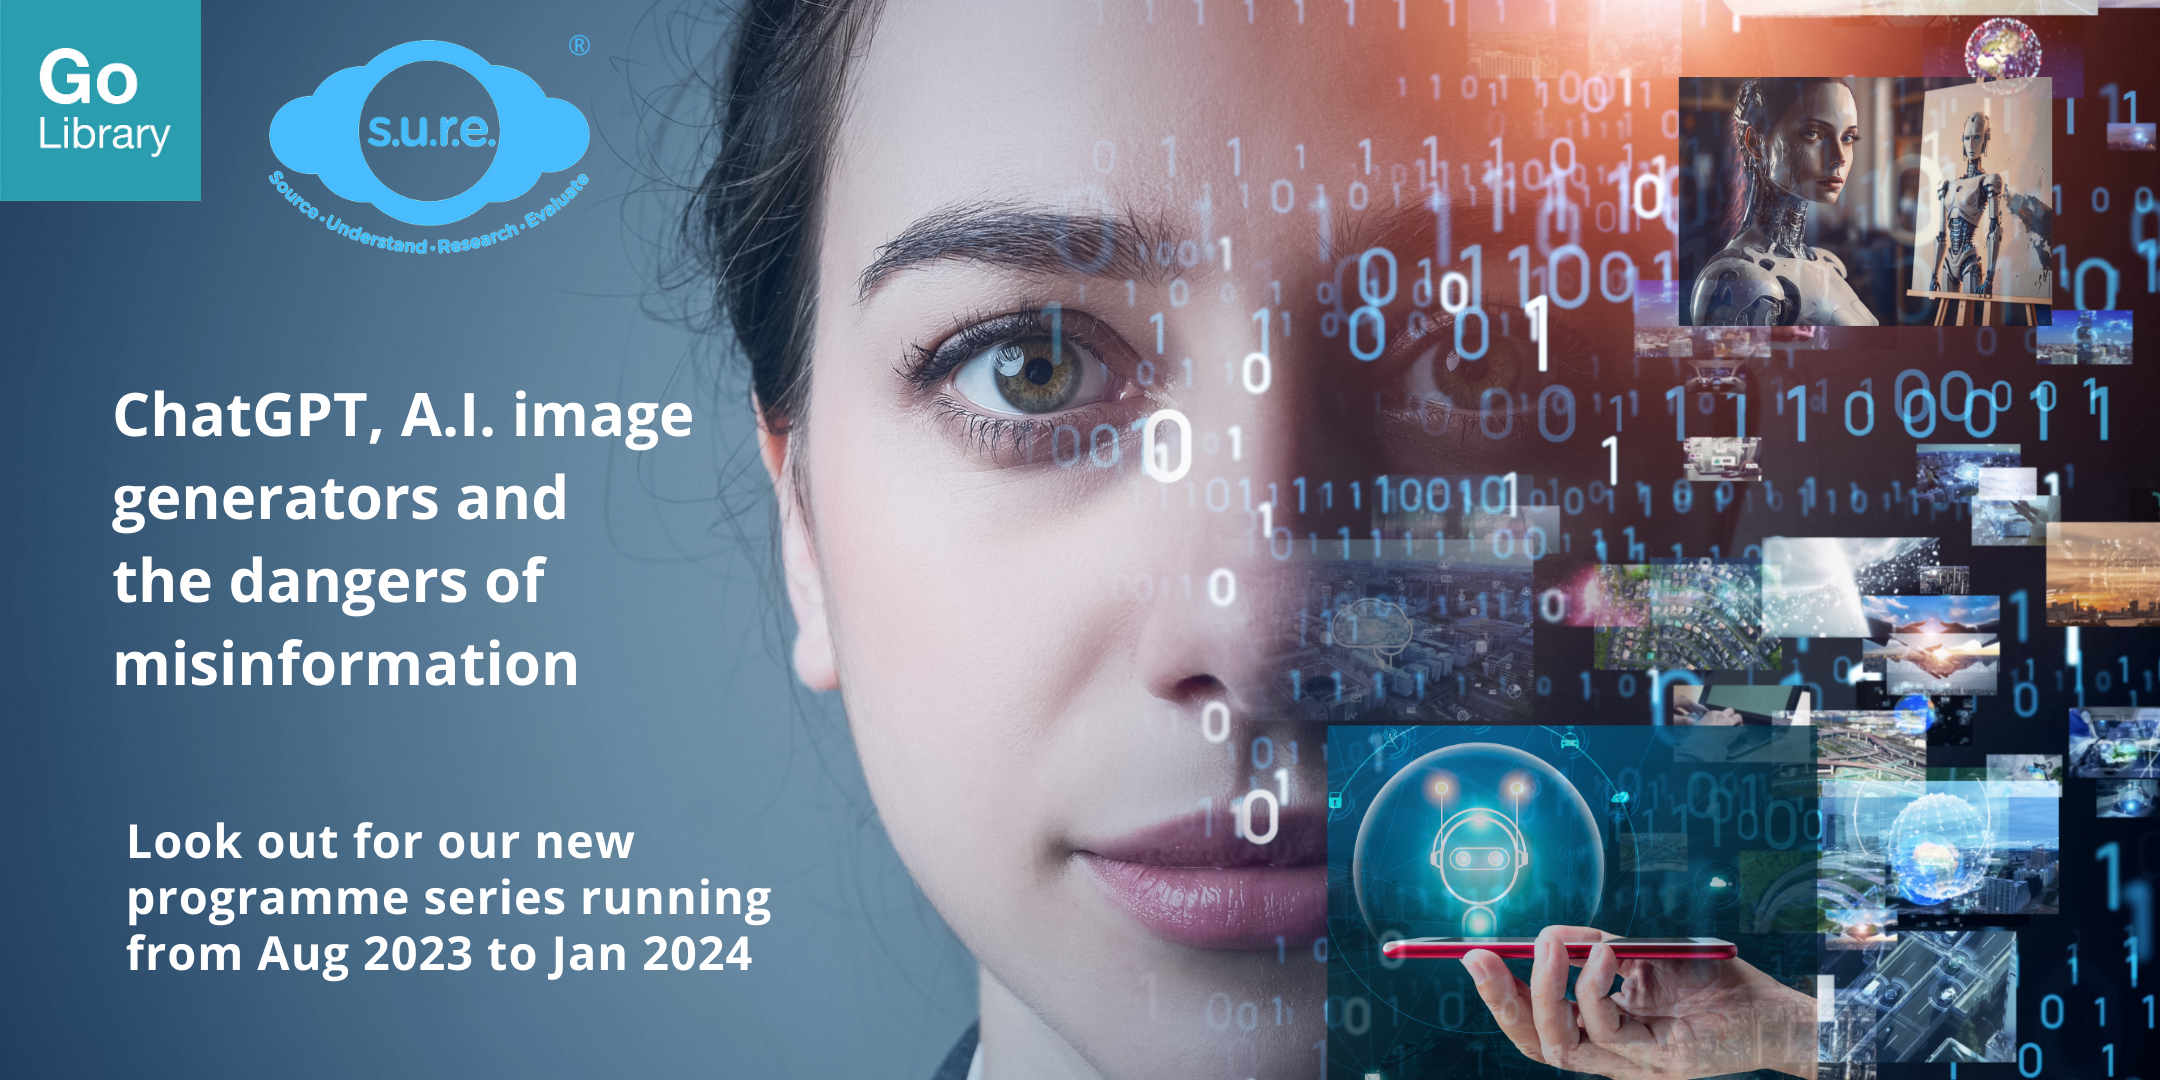
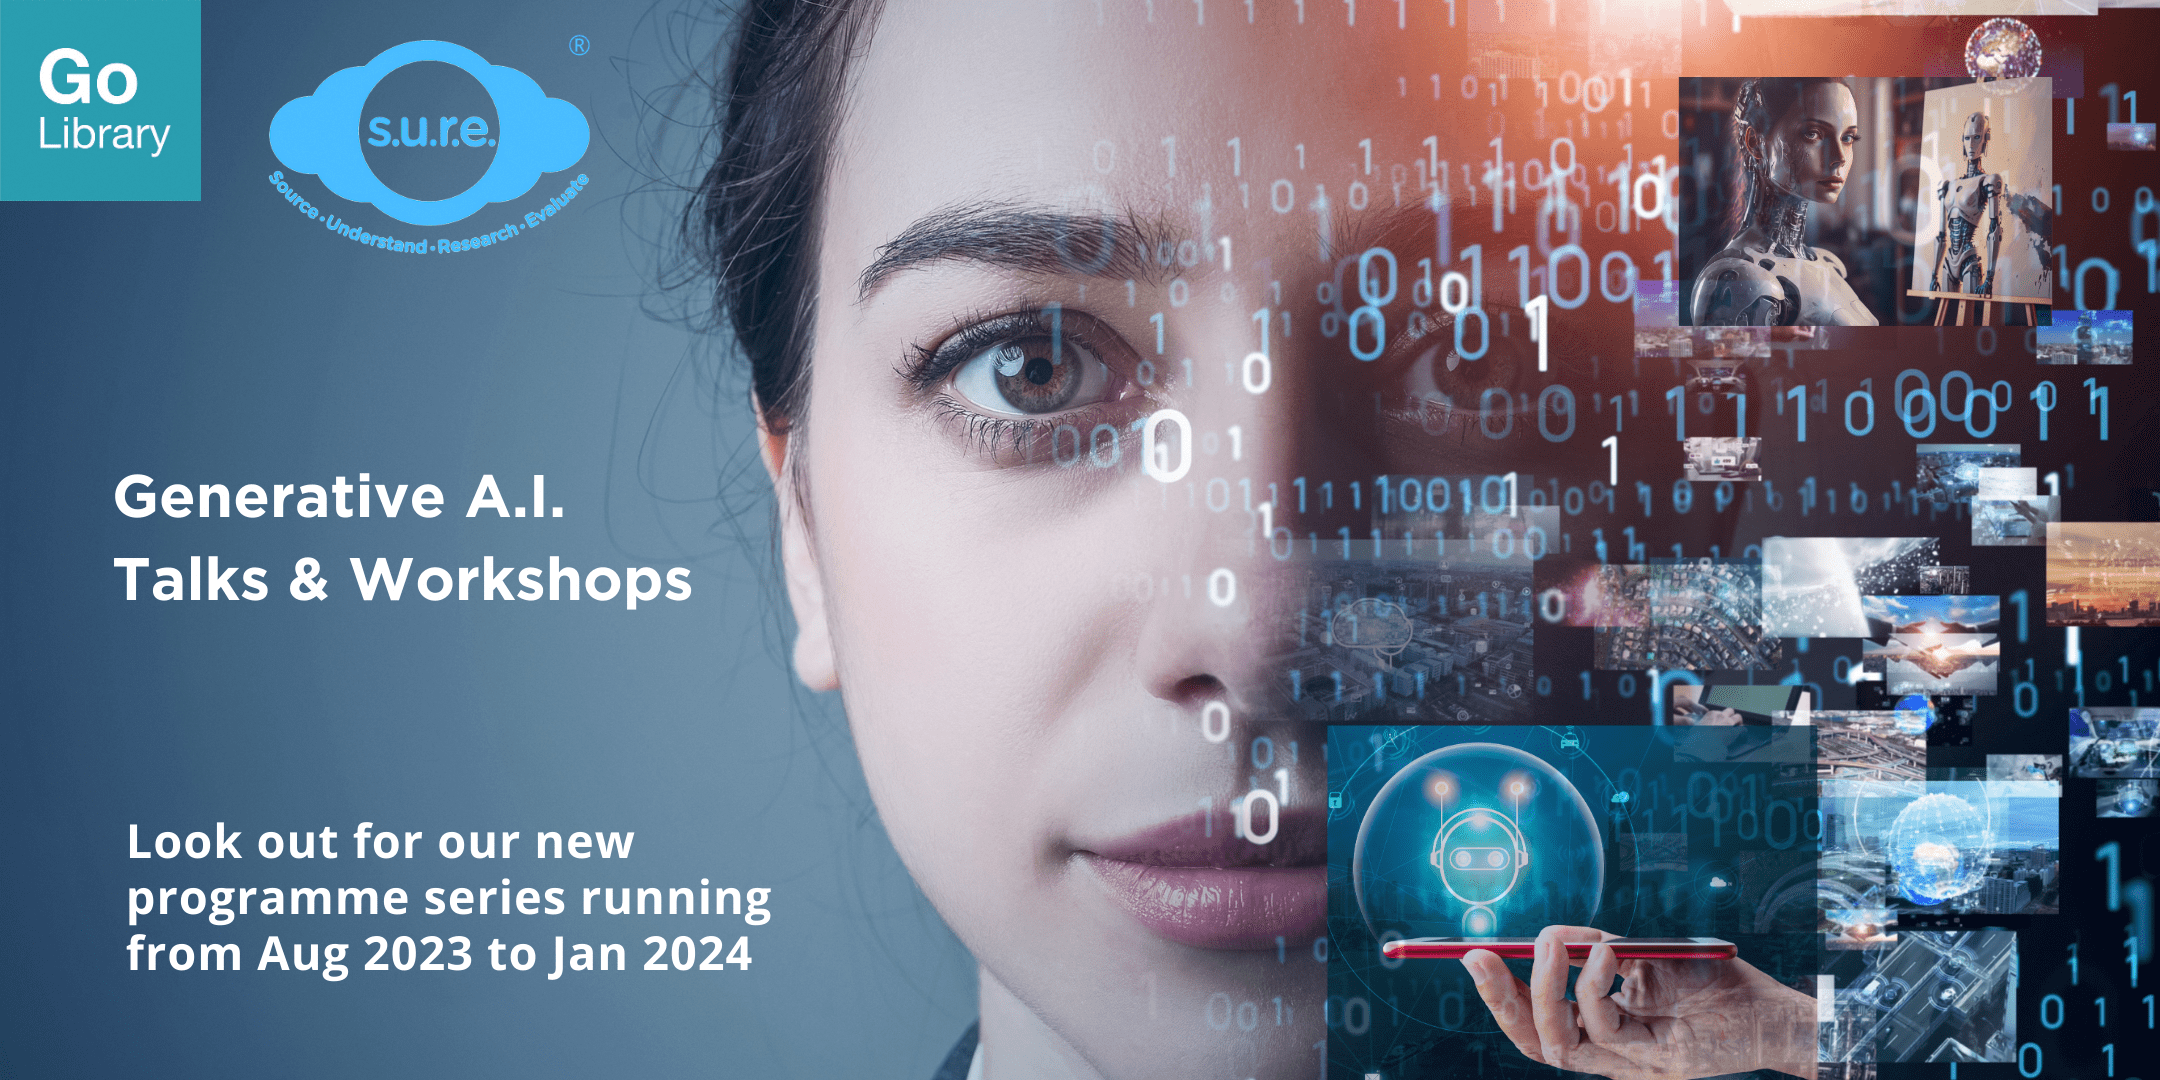
Gen AI

diff --git a/_generative-ai/1-programmes.md b/_generative-ai/1-programmes.md
@@ -1,5 +1,5 @@
 ---
-title: 'S.U.R.E. generative AI programmes'
+`title: 'S.U.R.E. generative AI programmes'
 permalink: /generative-ai/programmes/
 breadcrumb: 'Programmes'
 
@@ -9,7 +9,9 @@ breadcrumb: 'Programmes'
 
 ![](../images/eb-banner-gen-ai-2023.png)
 
-## Programme Synopsis
+### Generative A.I. 101 - ChatGPT, A.I. Image Generators and the Dangers of Misinformation
+
+**Synopsis**
 
 In this talk, learn about how popular generative A.I. tools such as ChatGPT and MidJourney might be exploited by bad actors to create online falsehoods. 
 
@@ -17,18 +19,36 @@ Find out how you can apply NLB’s S.U.R.E. (Source, Understand, Research, Evalu
 
 This talk features interactive quizzes and activities conducted via your smartphones and is suitable for ages 13 and above.
 
-
-
 ## Schedule
 
 Please refer to the [SURE Programmes listing](https://www.eventbrite.com/cc/sure-programmes-2280469) in EventBrite for updates.
 
-| Date                                                         | Time              | Venue                                                     | Language |
-| ------------------------------------------------------------ | ----------------- | --------------------------------------------------------- | -------- |
-| [20 Aug 2023](https://www.eventbrite.com/e/chatgpt-ai-image-generators-and-the-dangers-of-misinformation-tickets-662081893767?aff=odcleoeventsincollection&keep_tld=1) | 11.00am - 12.00pm | Punggol Regional Library <br>Level 5 Programme Rm <br>    | English  |
-| [19 Sep 2023](https://nlb-genai-19sep.eventbrite.sg )        | 7.00pm - 8.00pm   | This session will be conducted online via Zoom.<br>       | English  |
-| [25 Nov 2023](https://nlb-genai-25nov.eventbrite.sg)         | 3.30pm - 4.30pm   | Jurong Regional Library  <br>Level 1 Programme Zone<br>   | Mandarin |
-| [13 Jan 2024](https://nlb-genai-13jan.eventbrite.sg)         | 2.30pm - 3.30pm   | Woodlands Regional Library <br>Level 1 Programme Zone<br> | English  |
+| Date                                                         | Time              | Venue                                                   | Language |
+| ------------------------------------------------------------ | ----------------- | ------------------------------------------------------- | -------- |
+| [20 Aug 2023](https://www.eventbrite.com/e/chatgpt-ai-image-generators-and-the-dangers-of-misinformation-tickets-662081893767?aff=odcleoeventsincollection&keep_tld=1) | 11.00am - 12.00pm | Punggol Regional Library <br>Level 5 Programme Rm <br>  | English  |
+| [19 Sep 2023](https://nlb-genai-19sep.eventbrite.sg )        | 7.00pm - 8.00pm   | This session will be conducted online via Zoom.<br>     | English  |
+| [25 Nov 2023](https://nlb-genai-25nov.eventbrite.sg)         | s3.30pm - 4.30pm  | Jurong Regional Library  <br>Level 1 Programme Zone<br> | Mandarin |
+
+
+
+<hr>
+
+### Generative A.I. 201 - Verifying Generative A.I. Content
+
+**Synopsis**
+
+ChatGPT and other generative A.I. tools are increasingly used to generate text, images, videos and other content by students, professionals, and even some bad actors like scammers and creators of online falsehoods.
+
+In this workshop, find out how you can apply various tools and techniques - as well as NLB’s S.U.R.E. (Source, Understand, Research, Evaluate) steps - to verify and fact-check A.I.-generated content.
+
+***Note to participants: While it is not mandatory, participants are advised to attend one of these talks in Aug or Sep, before attending this workshop.***
+
+Please refer to the [SURE Programmes listing](https://www.eventbrite.com/cc/sure-programmes-2280469) in EventBrite for updates.
+
+| Date                                                 | Time            | Venue                                                      | Language |
+| ---------------------------------------------------- | --------------- | ---------------------------------------------------------- | -------- |
+| 17 Oct 2023                                          | 7.00pm - 9.00pm | National Library  Building<br>Level 5 Possibility Room<br> | English  |
+| [13 Jan 2024](https://nlb-genai-13jan.eventbrite.sg) | 2.30pm - 3.30pm | Woodlands Regional Library <br>Level 1 Programme Zone<br>  | English  |
 
 
 
